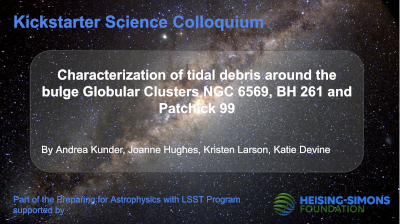
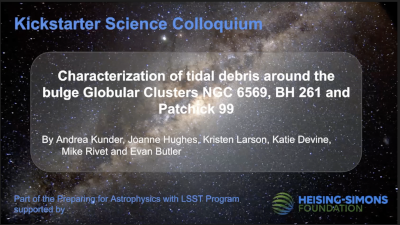
Updated entry for Dec 1 colloquium

diff --git a/kickstarter_colloquia.html b/kickstarter_colloquia.html
@@ -100,7 +100,7 @@ of LSST.  All of the colloquia were held online.</p>
 </b><br>
     Andrea Kunder, Joanne Hughes, Kristen Larson, Katie Devine, Mike Rivet, Evan Butler</td>
     <td>
-  <a href="https://youtu.be/syvDOq6ybnM"><img src="/assets/images/ks_dec1_thumbnail.png" width=150></a>
+  <a href="https://youtu.be/U9WSaBBZSCM"><img src="/assets/images/ks_dec1_thumbnail.png" width=150></a>
 </td>
   </tr>
 </table>
